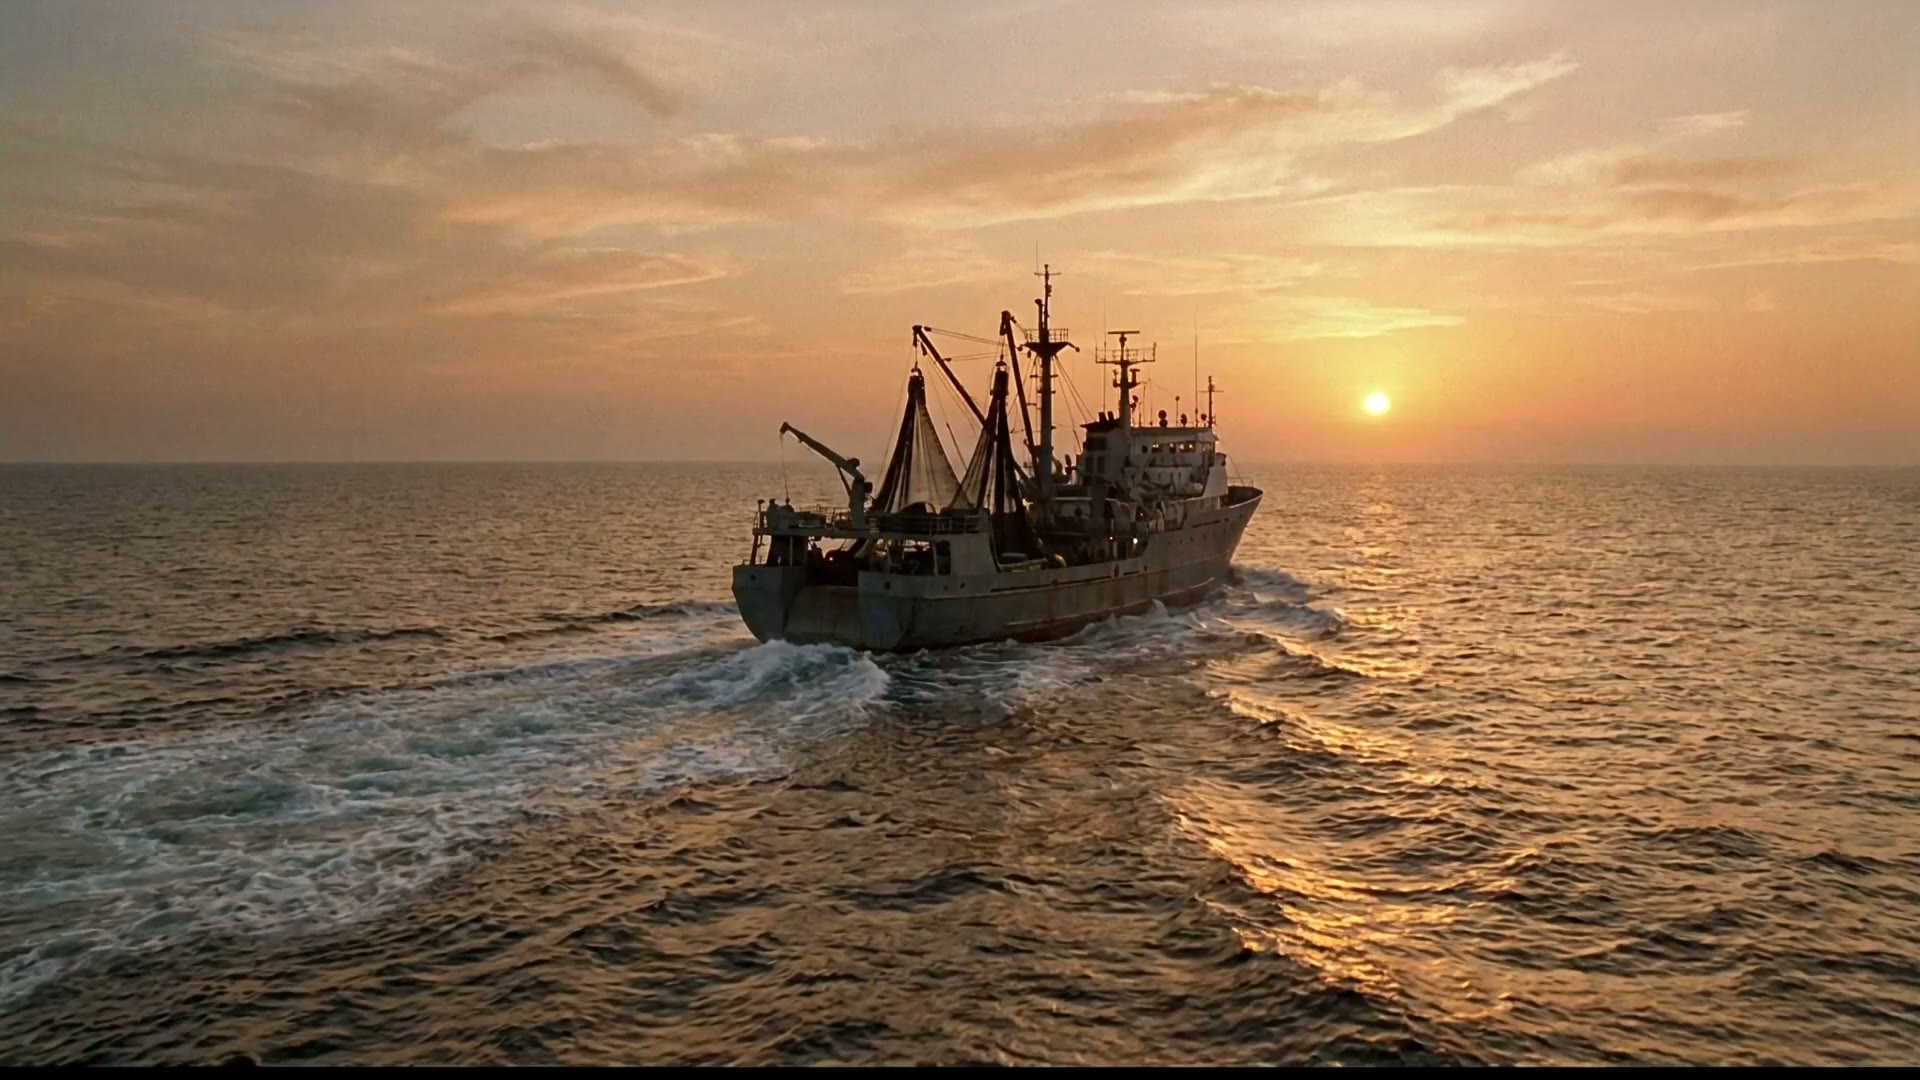
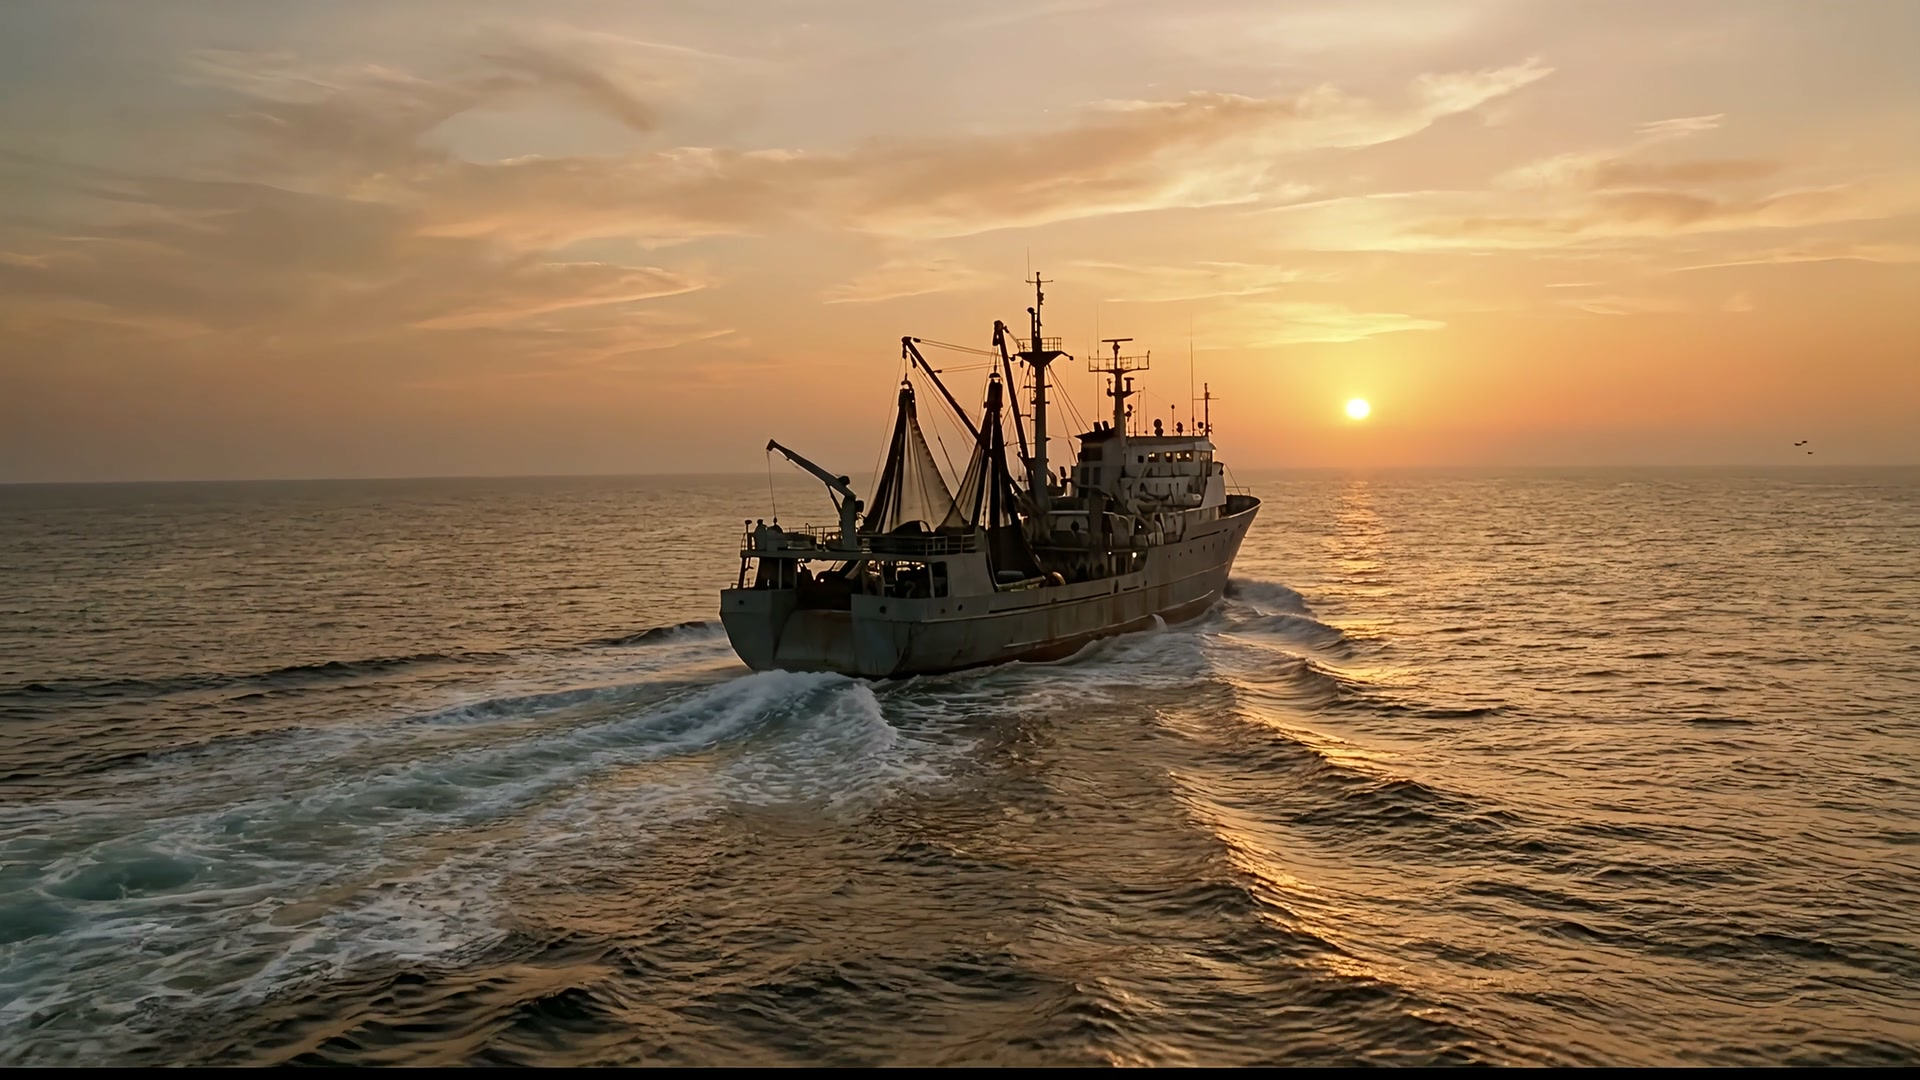
Hero: video atunero reescalado a 4K (Higgsfield) en autoplay-loop nitido
- upscale_video 4K (preset aigc), reencode a 1440p limpio para autoplay
- Quita el scroll-scrub (se veia borroso al rascar); velos navy mas ligeros
- Poster nitido en alta resolucion

diff --git a/padantal-3d/src/components/HeroScrollVideo.tsx b/padantal-3d/src/components/HeroScrollVideo.tsx
@@ -1,120 +1,64 @@
 "use client";
 
-import { useEffect, useRef, useState } from "react";
 import { hero } from "@/content/site";
 
 const SRC = "/assets/video/atunero.mp4";
 const POSTER = "/assets/video/poster.jpg";
 
 /**
- * Hero editorial: vídeo del atunero a sangre (el color vive dentro del marco) con titular
- * susurrado en el tercio inferior. El vídeo se "rasca" con el scroll (scroll-scrubbing).
- * Fallback a póster/loop en móvil o reduce-motion.
+ * Hero corporativo: vídeo del atunero (4K) en autoplay-loop a sangre, nítido,
+ * con velo navy ligero y titular + CTAs. Fallback a póster en reduce-motion.
  */
 export function HeroScrollVideo() {
-  const sectionRef = useRef<HTMLDivElement>(null);
-  const videoRef = useRef<HTMLVideoElement>(null);
-  const progress = useRef(0);
-  const current = useRef(0);
-  const [scrub, setScrub] = useState(true);
-
-  useEffect(() => {
-    const reduce = window.matchMedia("(prefers-reduced-motion: reduce)").matches;
-    const small = window.matchMedia("(max-width: 767px)").matches;
-    if (reduce || small) {
-      setScrub(false);
-      return;
-    }
-    const video = videoRef.current;
-    if (!video) return;
-
-    let duration = 0;
-    const onMeta = () => {
-      duration = video.duration || 0;
-    };
-    video.addEventListener("loadedmetadata", onMeta);
-    if (video.readyState >= 1) onMeta();
-
-    const onScroll = () => {
-      const el = sectionRef.current;
-      if (!el) return;
-      const rect = el.getBoundingClientRect();
-      const total = el.offsetHeight - window.innerHeight;
-      progress.current = total > 0 ? Math.min(Math.max(-rect.top / total, 0), 1) : 0;
-    };
-    onScroll();
-    window.addEventListener("scroll", onScroll, { passive: true });
-    window.addEventListener("resize", onScroll);
-
-    let raf = 0;
-    const loop = () => {
-      current.current += (progress.current - current.current) * 0.1;
-      if (duration > 0 && video.readyState >= 2) {
-        const t = current.current * (duration - 0.05);
-        if (Math.abs(video.currentTime - t) > 0.01) video.currentTime = t;
-      }
-      raf = requestAnimationFrame(loop);
-    };
-    raf = requestAnimationFrame(loop);
-
-    return () => {
-      cancelAnimationFrame(raf);
-      window.removeEventListener("scroll", onScroll);
-      window.removeEventListener("resize", onScroll);
-      video.removeEventListener("loadedmetadata", onMeta);
-    };
-  }, []);
-
   return (
-    <section ref={sectionRef} className="relative h-[240vh]">
-      <div className="sticky top-0 h-screen w-full overflow-hidden">
-        <video
-          ref={videoRef}
-          src={SRC}
-          poster={POSTER}
-          muted
-          playsInline
-          preload="metadata"
-          autoPlay={!scrub}
-          loop={!scrub}
-          className="absolute inset-0 h-full w-full object-cover"
-        />
+    <section className="relative h-[100svh] min-h-[600px] w-full overflow-hidden">
+      <video
+        src={SRC}
+        poster={POSTER}
+        autoPlay
+        loop
+        muted
+        playsInline
+        preload="metadata"
+        className="absolute inset-0 h-full w-full object-cover motion-reduce:hidden"
+      />
+      {/* Fallback estático para reduce-motion */}
+      <img src={POSTER} alt="" aria-hidden="true" className="absolute inset-0 hidden h-full w-full object-cover motion-reduce:block" />
 
-        {/* Velos navy para contraste */}
-        <div className="absolute inset-0 bg-[linear-gradient(180deg,rgba(8,20,40,.55)_0%,rgba(8,20,40,.2)_40%,rgba(8,20,40,.85)_100%)]" />
-        <div className="absolute inset-0 bg-[linear-gradient(90deg,rgba(8,20,40,.72)_0%,transparent_60%)]" />
+      {/* Velos navy ligeros para contraste */}
+      <div className="absolute inset-0 bg-[linear-gradient(180deg,rgba(8,20,40,.5)_0%,rgba(8,20,40,.12)_40%,rgba(8,20,40,.78)_100%)]" />
+      <div className="absolute inset-0 bg-[linear-gradient(90deg,rgba(8,20,40,.66)_0%,transparent_58%)]" />
 
-        {/* Contenido */}
-        <div className="relative flex h-full items-center">
-          <div className="mx-auto w-full max-w-[1280px] px-6">
-            <div className="max-w-[680px]">
-              <span className="eyebrow">{hero.eyebrow}</span>
-              <h1 className="mt-5 text-[clamp(2.6rem,6.4vw,5.4rem)] font-semibold leading-[1.02] text-white drop-shadow-[0_2px_30px_rgba(0,0,0,.5)]">
-                {hero.titleLead} <span className="text-cyan-bright">{hero.titleAccent}</span>
-              </h1>
-              <p className="mt-6 max-w-[520px] text-[1.1rem] leading-relaxed text-white/85">
-                {hero.lead}
-              </p>
-              <div className="mt-9 flex flex-wrap items-center gap-3">
-                <a href={hero.ctaPrimary.href} className="btn btn-primary">
-                  {hero.ctaPrimary.label}
-                  <Arrow />
-                </a>
-                <a href={hero.ctaSecondary.href} className="btn btn-ghost">
-                  {hero.ctaSecondary.label}
-                </a>
-              </div>
+      {/* Contenido */}
+      <div className="relative flex h-full items-center">
+        <div className="mx-auto w-full max-w-[1280px] px-6">
+          <div className="max-w-[680px]">
+            <span className="eyebrow">{hero.eyebrow}</span>
+            <h1 className="mt-5 text-[clamp(2.6rem,6.4vw,5.4rem)] font-semibold leading-[1.02] text-white drop-shadow-[0_2px_30px_rgba(0,0,0,.5)]">
+              {hero.titleLead} <span className="text-cyan-bright">{hero.titleAccent}</span>
+            </h1>
+            <p className="mt-6 max-w-[520px] text-[1.1rem] leading-relaxed text-white/90">
+              {hero.lead}
+            </p>
+            <div className="mt-9 flex flex-wrap items-center gap-3">
+              <a href={hero.ctaPrimary.href} className="btn btn-primary">
+                {hero.ctaPrimary.label}
+                <Arrow />
+              </a>
+              <a href={hero.ctaSecondary.href} className="btn btn-ghost">
+                {hero.ctaSecondary.label}
+              </a>
             </div>
           </div>
         </div>
+      </div>
 
-        {/* Indicador de scroll */}
-        <div className="pointer-events-none absolute bottom-8 left-1/2 hidden -translate-x-1/2 flex-col items-center gap-2 text-[0.68rem] uppercase tracking-[0.2em] text-white/55 md:flex">
-          <span className="relative h-9 w-[22px] rounded-full border-2 border-white/40">
-            <span className="absolute left-1/2 top-[7px] h-[7px] w-[3px] -translate-x-1/2 rounded bg-white motion-safe:animate-[scrollcue_1.6s_infinite]" />
-          </span>
-          Navega
-        </div>
+      {/* Indicador de scroll */}
+      <div className="pointer-events-none absolute bottom-7 left-1/2 hidden -translate-x-1/2 flex-col items-center gap-2 text-[0.68rem] uppercase tracking-[0.2em] text-white/55 md:flex">
+        <span className="relative h-9 w-[22px] rounded-full border-2 border-white/40">
+          <span className="absolute left-1/2 top-[7px] h-[7px] w-[3px] -translate-x-1/2 rounded bg-white motion-safe:animate-[scrollcue_1.6s_infinite]" />
+        </span>
+        Descubre
       </div>
     </section>
   );
@@ -122,7 +66,7 @@ export function HeroScrollVideo() {
 
 function Arrow() {
   return (
-    <svg viewBox="0 0 24 24" fill="none" stroke="currentColor" strokeWidth={1.6}>
+    <svg viewBox="0 0 24 24" fill="none" stroke="currentColor" strokeWidth={2}>
       <path d="M5 12h14M13 6l6 6-6 6" strokeLinecap="round" strokeLinejoin="round" />
     </svg>
   );